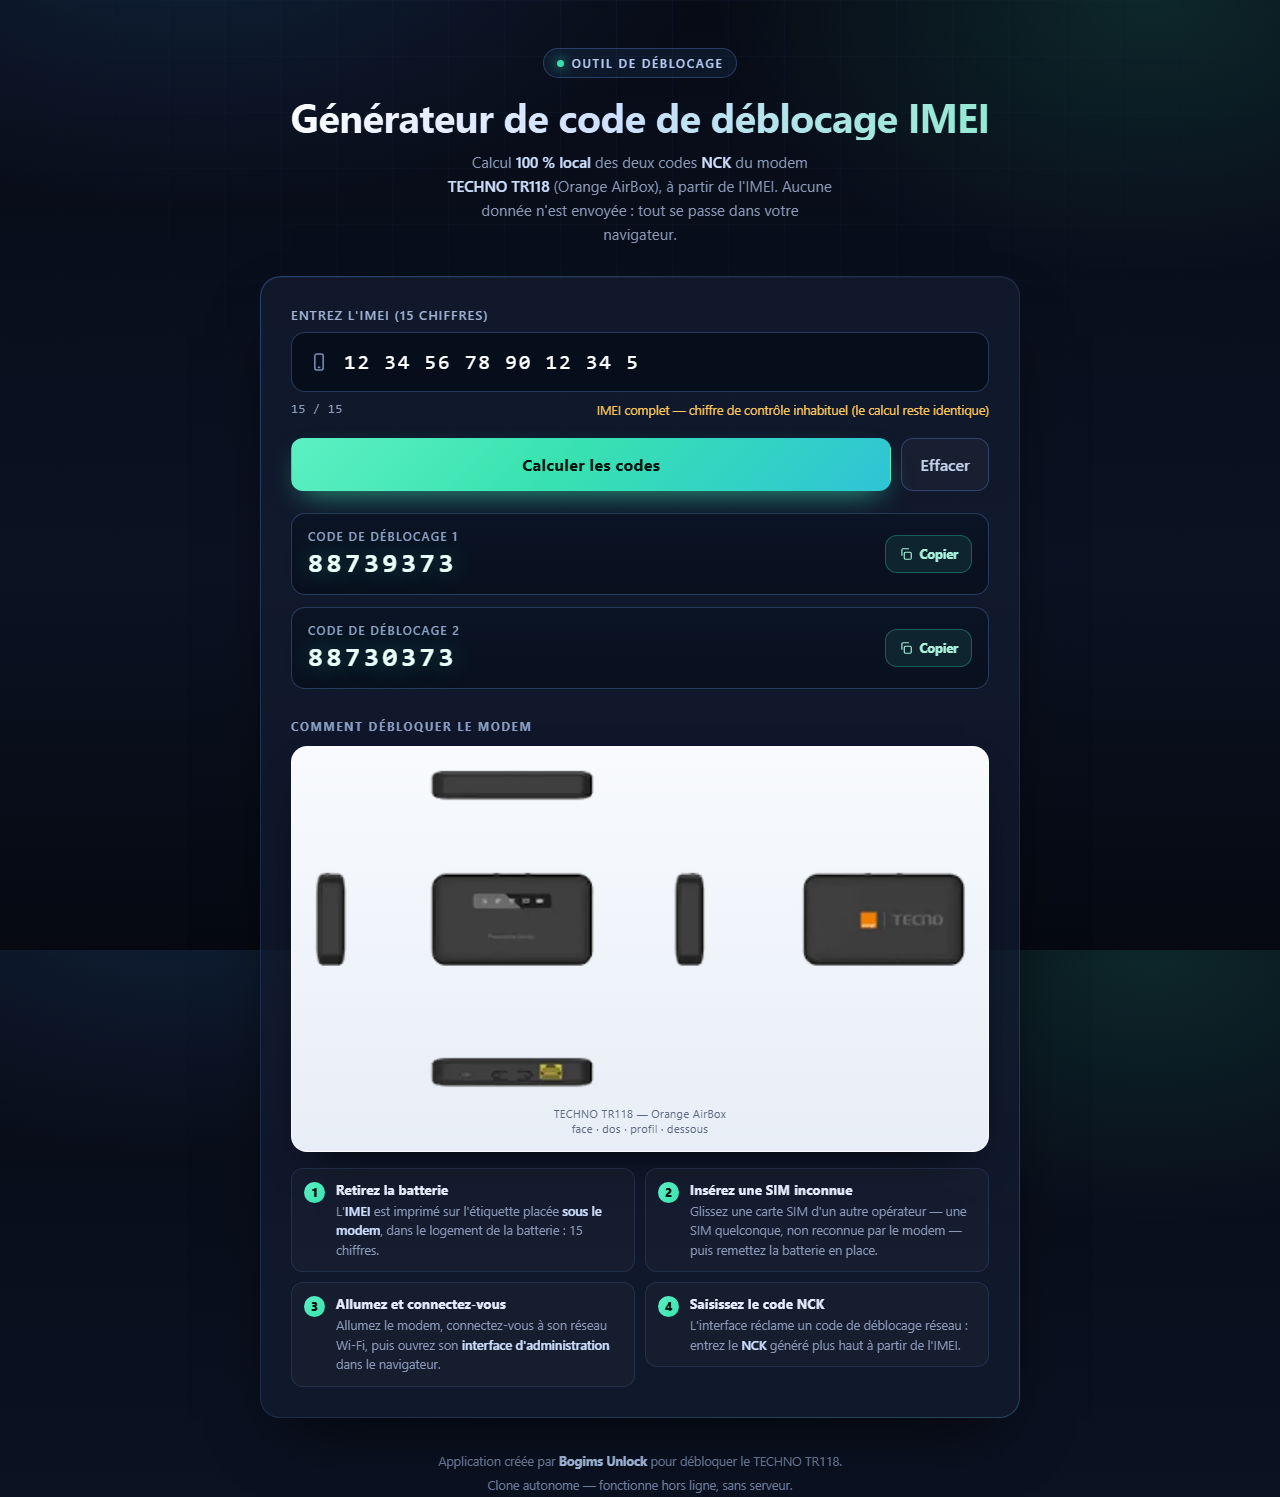
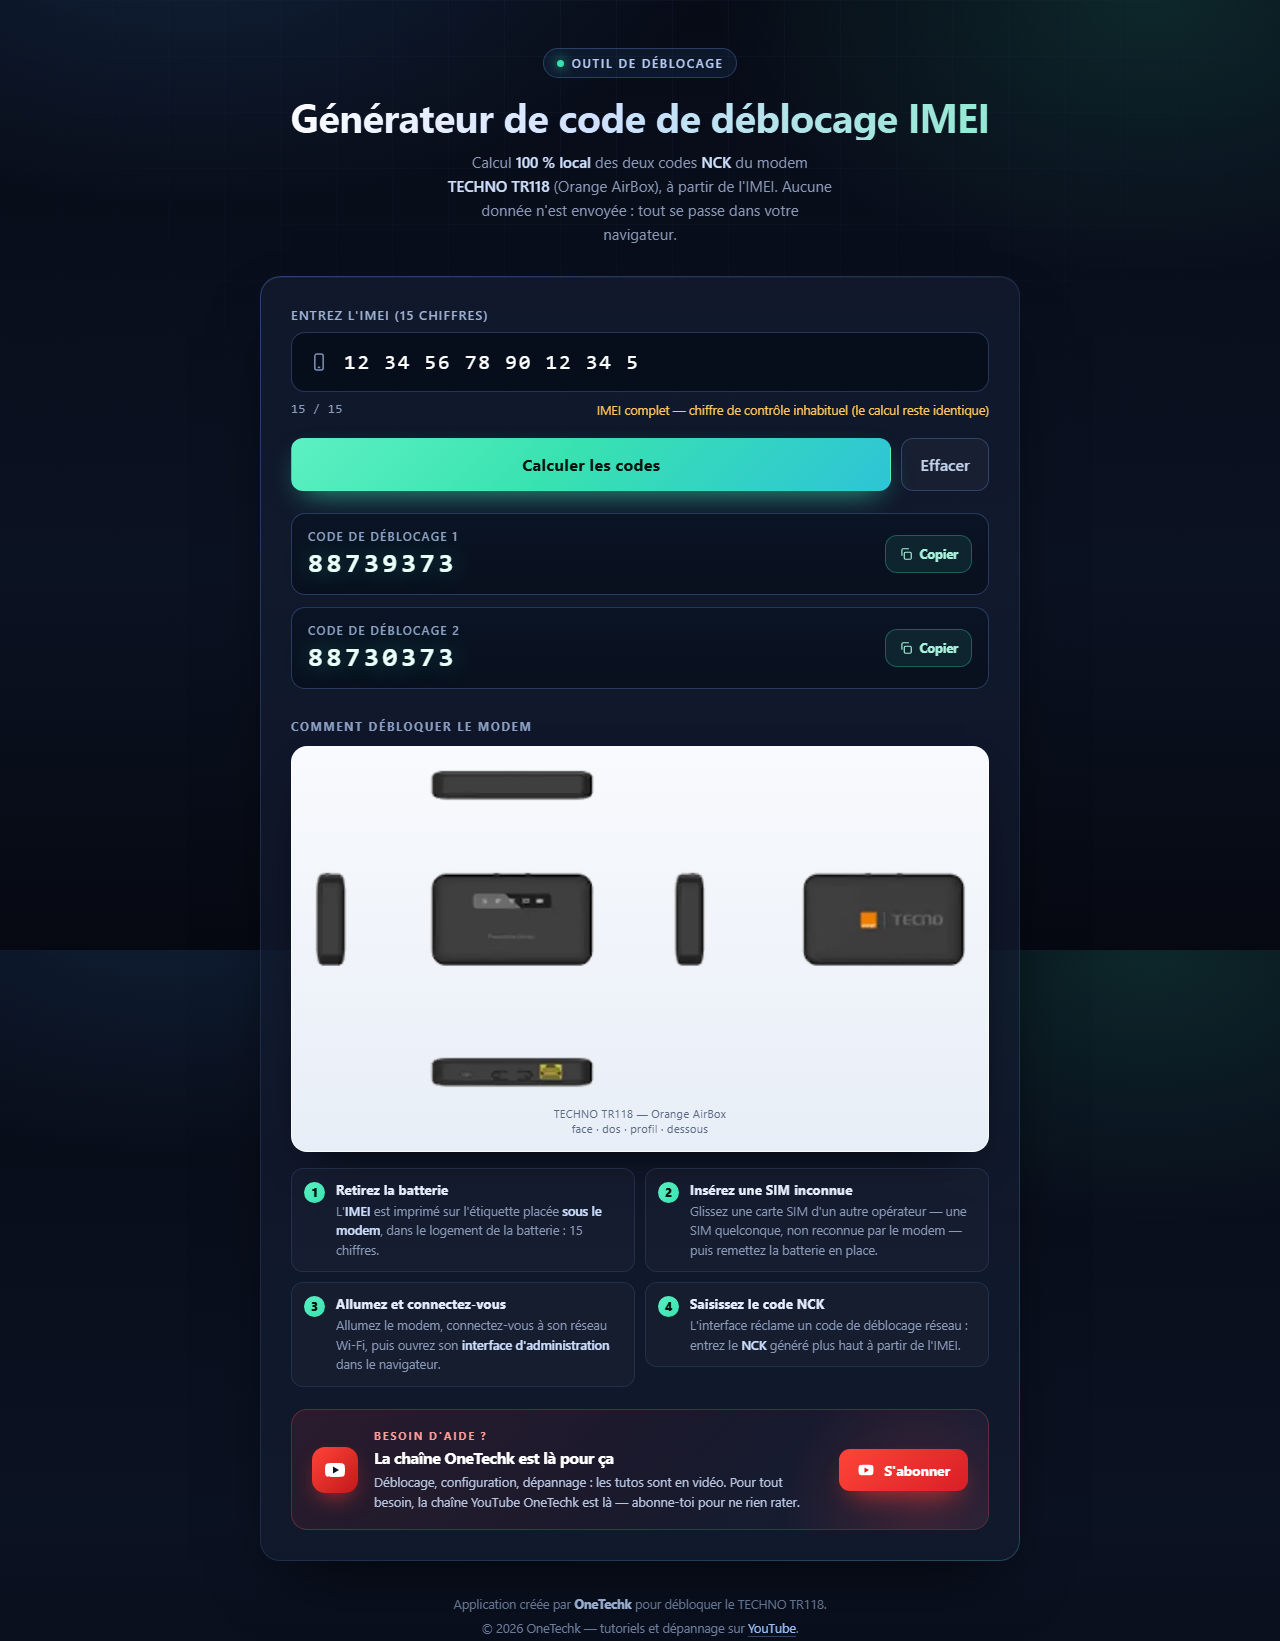
feat: branding OneTechk, CTA YouTube et domaine onetechk.vercel.app

diff --git a/app/globals.css b/app/globals.css
@@ -187,6 +187,52 @@
     .proc{grid-template-columns:1fr}
   }
 
+  /* ---------- CTA YouTube ---------- */
+  .cta{
+    position:relative;overflow:hidden;
+    display:flex;align-items:center;gap:16px;flex-wrap:wrap;
+    margin-top:22px;padding:18px 20px;border-radius:16px;
+    background:linear-gradient(135deg,rgba(255,60,60,.11),rgba(255,60,60,.035) 55%,rgba(74,163,255,.05));
+    border:1px solid rgba(255,90,90,.28);
+  }
+  .cta::after{
+    content:"";position:absolute;inset:-45% -12% auto auto;width:300px;height:300px;pointer-events:none;
+    background:radial-gradient(circle,rgba(255,60,60,.18),transparent 65%);
+  }
+  .cta .yt{
+    position:relative;z-index:1;flex:0 0 auto;width:46px;height:46px;border-radius:13px;
+    display:grid;place-items:center;color:#fff;
+    background:linear-gradient(135deg,#ff4438,#c2181b);
+    box-shadow:0 10px 24px -10px rgba(255,59,48,.95);
+  }
+  .cta .yt svg{width:24px;height:24px}
+  .cta .grow{position:relative;z-index:1;flex:1 1 250px;min-width:0}
+  .cta .kicker{
+    display:block;font-size:11px;letter-spacing:.16em;text-transform:uppercase;
+    font-weight:700;color:#ff9d97;margin-bottom:4px;
+  }
+  .cta h2{margin:0 0 4px;font-size:15.5px;letter-spacing:-.01em;color:#fff}
+  .cta p{margin:0;font-size:12.8px;line-height:1.55;color:#b9c6e0}
+  .cta-btn{
+    position:relative;z-index:1;flex:0 0 auto;
+    display:inline-flex;align-items:center;gap:9px;
+    padding:12px 18px;border-radius:11px;text-decoration:none;
+    font-size:13.5px;font-weight:750;letter-spacing:.01em;color:#fff;
+    background:linear-gradient(135deg,#ff4438,#d81f26);
+    box-shadow:0 12px 26px -12px rgba(255,59,48,.9);
+    transition:filter .18s, transform .12s;
+  }
+  .cta-btn:hover{filter:brightness(1.08)}
+  .cta-btn:active{transform:translateY(1px)}
+  .cta-btn svg{width:18px;height:18px}
+  @media (max-width:620px){
+    .cta{padding:16px}
+    .cta-btn{width:100%;justify-content:center}
+  }
+
+  footer a{color:#9fc4ff;text-decoration:none;border-bottom:1px solid rgba(159,196,255,.3)}
+  footer a:hover{color:#cfe0ff;border-bottom-color:rgba(207,224,255,.6)}
+
   footer{margin-top:32px;text-align:center;font-size:12.5px;color:#6f80a0;line-height:1.9}
   .sr{position:absolute;width:1px;height:1px;padding:0;margin:-1px;overflow:hidden;clip:rect(0 0 0 0);white-space:nowrap;border:0}
   @media (prefers-reduced-motion:reduce){*{animation:none!important;transition:none!important}}

diff --git a/app/page.tsx b/app/page.tsx
@@ -89,13 +89,48 @@ export default function Home() {
             ))}
           </ol>
         </div>
+
+        <aside className="cta">
+          <span className="yt" aria-hidden="true">
+            <svg viewBox="0 0 24 24" fill="currentColor">
+              <path d="M21.6 7.2a2.5 2.5 0 0 0-1.76-1.77C18.25 5 12 5 12 5s-6.25 0-7.84.43A2.5 2.5 0 0 0 2.4 7.2 26 26 0 0 0 2 12a26 26 0 0 0 .4 4.8 2.5 2.5 0 0 0 1.76 1.77C5.75 19 12 19 12 19s6.25 0 7.84-.43a2.5 2.5 0 0 0 1.76-1.77A26 26 0 0 0 22 12a26 26 0 0 0-.4-4.8z" />
+              <path d="M10 15.5v-7l6 3.5-6 3.5z" fill="#0b1222" />
+            </svg>
+          </span>
+
+          <div className="grow">
+            <span className="kicker">Besoin d&apos;aide&nbsp;?</span>
+            <h2>La chaîne OneTechk est là pour ça</h2>
+            <p>
+              Déblocage, configuration, dépannage : les tutos sont en vidéo. Pour tout besoin, la
+              chaîne YouTube OneTechk est là — abonne-toi pour ne rien rater.
+            </p>
+          </div>
+
+          <a
+            className="cta-btn"
+            href="https://www.youtube.com/@OneTechk"
+            target="_blank"
+            rel="noopener noreferrer"
+          >
+            <svg viewBox="0 0 24 24" fill="currentColor" aria-hidden="true">
+              <path d="M21.6 7.2a2.5 2.5 0 0 0-1.76-1.77C18.25 5 12 5 12 5s-6.25 0-7.84.43A2.5 2.5 0 0 0 2.4 7.2 26 26 0 0 0 2 12a26 26 0 0 0 .4 4.8 2.5 2.5 0 0 0 1.76 1.77C5.75 19 12 19 12 19s6.25 0 7.84-.43a2.5 2.5 0 0 0 1.76-1.77A26 26 0 0 0 22 12a26 26 0 0 0-.4-4.8z" />
+              <path d="M10 15.5v-7l6 3.5-6 3.5z" fill="#d81f26" />
+            </svg>
+            S&apos;abonner
+          </a>
+        </aside>
       </main>
 
       <footer>
-        Application créée par <strong style={{ color: "#a9c0e6" }}>Bogims Unlock</strong> pour
-        débloquer le TECHNO TR118.
+        Application créée par <strong style={{ color: "#a9c0e6" }}>OneTechk</strong> pour débloquer le
+        TECHNO TR118.
         <br />
-        Clone autonome — fonctionne hors ligne, sans serveur.
+        © {new Date().getFullYear()} OneTechk — tutoriels et dépannage sur{" "}
+        <a href="https://www.youtube.com/@OneTechk" target="_blank" rel="noopener noreferrer">
+          YouTube
+        </a>
+        .
       </footer>
     </div>
   );

diff --git a/app/layout.tsx b/app/layout.tsx
@@ -3,11 +3,32 @@ import type { ReactNode } from "react";
 
 import "./globals.css";
 
+const SITE_URL = "https://onetechk.vercel.app";
+const TITLE = "Générateur de code NCK — TECHNO TR118 | OneTechk";
+const DESCRIPTION =
+  "Calculez les deux codes NCK du modem TECHNO TR118 (Orange AirBox) à partir de l'IMEI. Calcul local, gratuit, sans inscription. Un outil OneTechk.";
+
 export const metadata: Metadata = {
-  title: "Générateur de code de déblocage IMEI — TECHNO TR118",
-  description:
-    "Calcul local, dans le navigateur, des deux codes NCK du modem TECHNO TR118 (Orange AirBox) à partir de l'IMEI.",
+  metadataBase: new URL(SITE_URL),
+  title: TITLE,
+  description: DESCRIPTION,
+  applicationName: "OneTechk",
+  authors: [{ name: "OneTechk", url: "https://www.youtube.com/@OneTechk" }],
+  creator: "OneTechk",
   icons: { icon: "/favicon.svg" },
+  openGraph: {
+    type: "website",
+    locale: "fr_FR",
+    url: SITE_URL,
+    siteName: "OneTechk",
+    title: TITLE,
+    description: DESCRIPTION,
+  },
+  twitter: {
+    card: "summary_large_image",
+    title: TITLE,
+    description: DESCRIPTION,
+  },
 };
 
 export const viewport: Viewport = {

diff --git a/README.md b/README.md
@@ -1,6 +1,6 @@
-# Bogims Unlock — Générateur de code NCK (TECHNO TR118)
+# OneTechk — Générateur de code NCK (TECHNO TR118)
 
-**Démo en ligne : <https://bogims-next.vercel.app>**
+**Démo en ligne : <https://onetechk.vercel.app>**
 
 Portage **Next.js** du clone du générateur de code de déblocage IMEI.
 L'application calcule les deux codes **NCK** du modem **TECHNO TR118** (Orange AirBox)
@@ -104,4 +104,5 @@ Implémentation : `lib/imei.ts` — vérifiée sur **94 échantillons** réels d
 - contrôle Luhn **non bloquant** (signalé, le calcul reste identique) ;
 - affichage séquencé : code 1, puis code 2 après ~420 ms ;
 - boutons « Copier » avec repli `execCommand` hors contexte sécurisé ;
+- **CTA d'abonnement** à la chaîne YouTube [@OneTechk](https://www.youtube.com/@OneTechk) en bas de page ;
 - responsive (grille de procédure en 1 colonne < 700 px), `prefers-reduced-motion` respecté.
